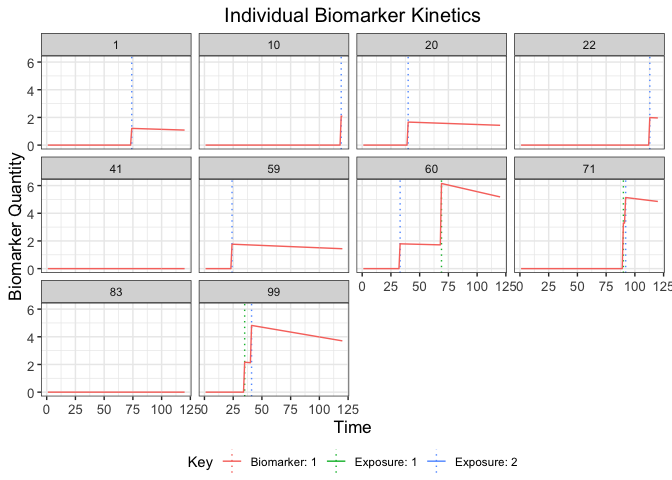
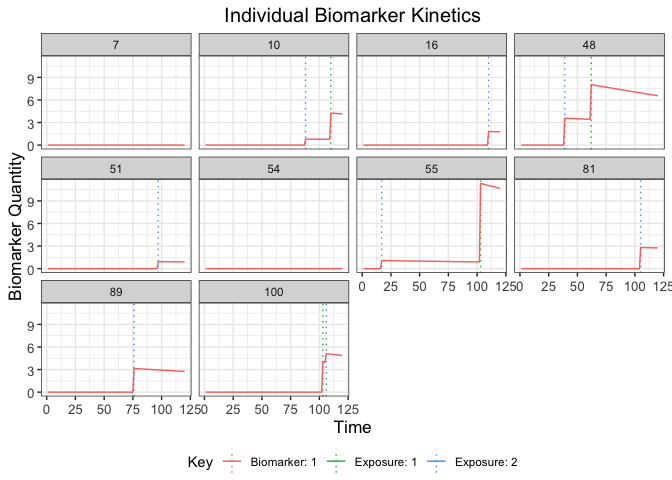
Knitted README

diff --git a/README.md b/README.md
@@ -1,6 +1,10 @@
 README
 ================
 
+<!-- badges: start -->
+[![R-CMD-check](https://github.com/AMenezes97/serosim/actions/workflows/R-CMD-check.yaml/badge.svg)](https://github.com/AMenezes97/serosim/actions/workflows/R-CMD-check.yaml)
+<!-- badges: end -->
+
 # Motivation
 
 The *serosim* package is designed to simulate serological survey data
@@ -38,13 +42,51 @@ Load necessary packages:
 devtools::install_github("AMenezes97/serosim")
 ```
 
+    ## pillar       (1.8.1 -> 1.9.0 ) [CRAN]
+    ## vctrs        (0.6.0 -> 0.6.1 ) [CRAN]
+    ## cli          (3.6.0 -> 3.6.1 ) [CRAN]
+    ## selectr      (NA    -> 0.4-2 ) [CRAN]
+    ## rmarkdown    (2.20  -> 2.21  ) [CRAN]
+    ## rematch      (NA    -> 1.0.1 ) [CRAN]
+    ## cellranger   (NA    -> 1.1.0 ) [CRAN]
+    ## timechange   (NA    -> 0.2.0 ) [CRAN]
+    ## forcats      (NA    -> 1.0.0 ) [CRAN]
+    ## uuid         (NA    -> 1.1-0 ) [CRAN]
+    ## ids          (NA    -> 1.0.1 ) [CRAN]
+    ## googledrive  (NA    -> 2.1.0 ) [CRAN]
+    ## gargle       (NA    -> 1.3.0 ) [CRAN]
+    ## DBI          (NA    -> 1.1.3 ) [CRAN]
+    ## blob         (NA    -> 1.2.4 ) [CRAN]
+    ## rvest        (NA    -> 1.0.3 ) [CRAN]
+    ## reprex       (NA    -> 2.0.2 ) [CRAN]
+    ## readxl       (NA    -> 1.4.2 ) [CRAN]
+    ## modelr       (NA    -> 0.1.11) [CRAN]
+    ## lubridate    (NA    -> 1.9.2 ) [CRAN]
+    ## haven        (NA    -> 2.5.2 ) [CRAN]
+    ## googleshe... (NA    -> 1.1.0 ) [CRAN]
+    ## dtplyr       (NA    -> 1.3.1 ) [CRAN]
+    ## dbplyr       (NA    -> 2.3.2 ) [CRAN]
+    ## conflicted   (NA    -> 1.2.0 ) [CRAN]
+    ## tidyverse    (NA    -> 2.0.0 ) [CRAN]
+    ## patchwork    (NA    -> 1.1.2 ) [CRAN]
+    ## deSolve      (NA    -> 1.35  ) [CRAN]
     ## 
-    ## * checking for file ‘/private/var/folders/hz/p73gx8v941q29dz9n1xr5t500000gn/T/RtmpbITF0P/remotes13b9e75b36f0d/AMenezes97-serosim-eaed2a2/DESCRIPTION’ ... OK
-    ## * preparing ‘serosim’:
-    ## * checking DESCRIPTION meta-information ... OK
-    ## * checking for LF line-endings in source and make files and shell scripts
-    ## * checking for empty or unneeded directories
-    ## * building ‘serosim_0.0.0.9000.tar.gz’
+    ##   There is a binary version available but the source version is later:
+    ##           binary source needs_compilation
+    ## rmarkdown   2.20   2.21             FALSE
+    ## 
+    ## 
+    ## The downloaded binary packages are in
+    ##  /var/folders/q8/2nt_5tqj7yj_rmmxlknjr2sm0000gr/T//RtmpExU9CM/downloaded_packages
+    ## ── R CMD build ─────────────────────────────────────────────────────────────────
+    ##      checking for file ‘/private/var/folders/q8/2nt_5tqj7yj_rmmxlknjr2sm0000gr/T/RtmpExU9CM/remotes11fa1dfe6c69/AMenezes97-serosim-9500829/DESCRIPTION’ ...  ✔  checking for file ‘/private/var/folders/q8/2nt_5tqj7yj_rmmxlknjr2sm0000gr/T/RtmpExU9CM/remotes11fa1dfe6c69/AMenezes97-serosim-9500829/DESCRIPTION’
+    ##   ─  preparing ‘serosim’: (1.1s)
+    ##      checking DESCRIPTION meta-information ...  ✔  checking DESCRIPTION meta-information
+    ##   ─  checking for LF line-endings in source and make files and shell scripts (1.1s)
+    ##   ─  checking for empty or unneeded directories
+    ##   ─  building ‘serosim_0.0.0.9000.tar.gz’
+    ##      
+    ## 
 
 ``` r
 library(serosim)
@@ -100,11 +142,11 @@ summary(demography)
 
     ##        i              birth           removal        times       
     ##  Min.   :  1.00   Min.   :  1.00   Min.   :121   Min.   :  1.00  
-    ##  1st Qu.: 25.75   1st Qu.: 32.50   1st Qu.:121   1st Qu.: 30.75  
-    ##  Median : 50.50   Median : 71.50   Median :121   Median : 60.50  
-    ##  Mean   : 50.50   Mean   : 65.33   Mean   :121   Mean   : 60.50  
-    ##  3rd Qu.: 75.25   3rd Qu.:100.00   3rd Qu.:121   3rd Qu.: 90.25  
-    ##  Max.   :100.00   Max.   :119.00   Max.   :121   Max.   :120.00
+    ##  1st Qu.: 25.75   1st Qu.: 40.75   1st Qu.:121   1st Qu.: 30.75  
+    ##  Median : 50.50   Median : 59.00   Median :121   Median : 60.50  
+    ##  Mean   : 50.50   Mean   : 62.41   Mean   :121   Mean   : 60.50  
+    ##  3rd Qu.: 75.25   3rd Qu.: 92.00   3rd Qu.:121   3rd Qu.: 90.25  
+    ##  Max.   :100.00   Max.   :118.00   Max.   :121   Max.   :120.00
 
 # 1.3 Exposure to biomarker mapping
 
@@ -399,12 +441,12 @@ head(res$kinetics_parameters)
     ## # A tibble: 6 × 7
     ##       i     t     x     b name    value realized_value
     ##   <int> <dbl> <dbl> <dbl> <chr>   <dbl>          <dbl>
-    ## 1     1    74     2     1 boost 1.21           1.21   
-    ## 2     1    74     2     1 wane  0.00219        0.00219
-    ## 3     2    92     2     1 boost 1.95           1.95   
-    ## 4     2    92     2     1 wane  0.00216        0.00216
-    ## 5     2   116     1     1 boost 5.88           5.88   
-    ## 6     2   116     1     1 wane  0.00388        0.00388
+    ## 1     1    17     2     1 boost 2.58           2.58   
+    ## 2     1    17     2     1 wane  0.00229        0.00229
+    ## 3     1   104     1     1 boost 2.67           2.67   
+    ## 4     1   104     1     1 wane  0.00401        0.00401
+    ## 5     2    13     2     1 boost 1.74           1.74   
+    ## 6     2    13     2     1 wane  0.00166        0.00166
 
 ``` r
 ## Combine plots as seen in paper 
